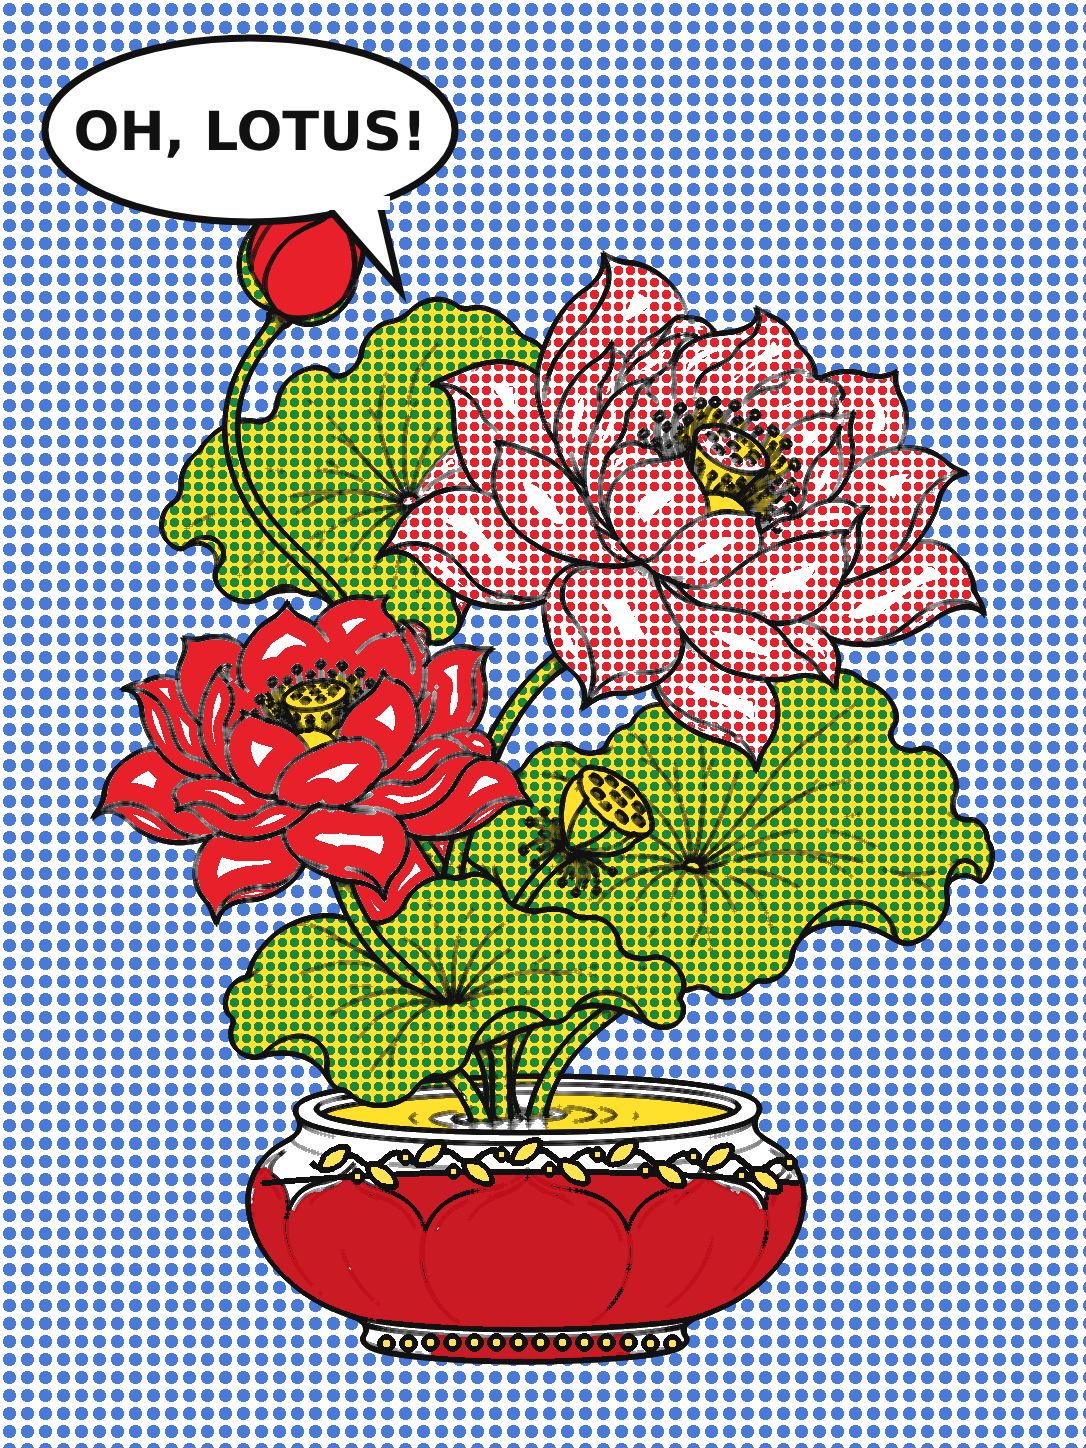
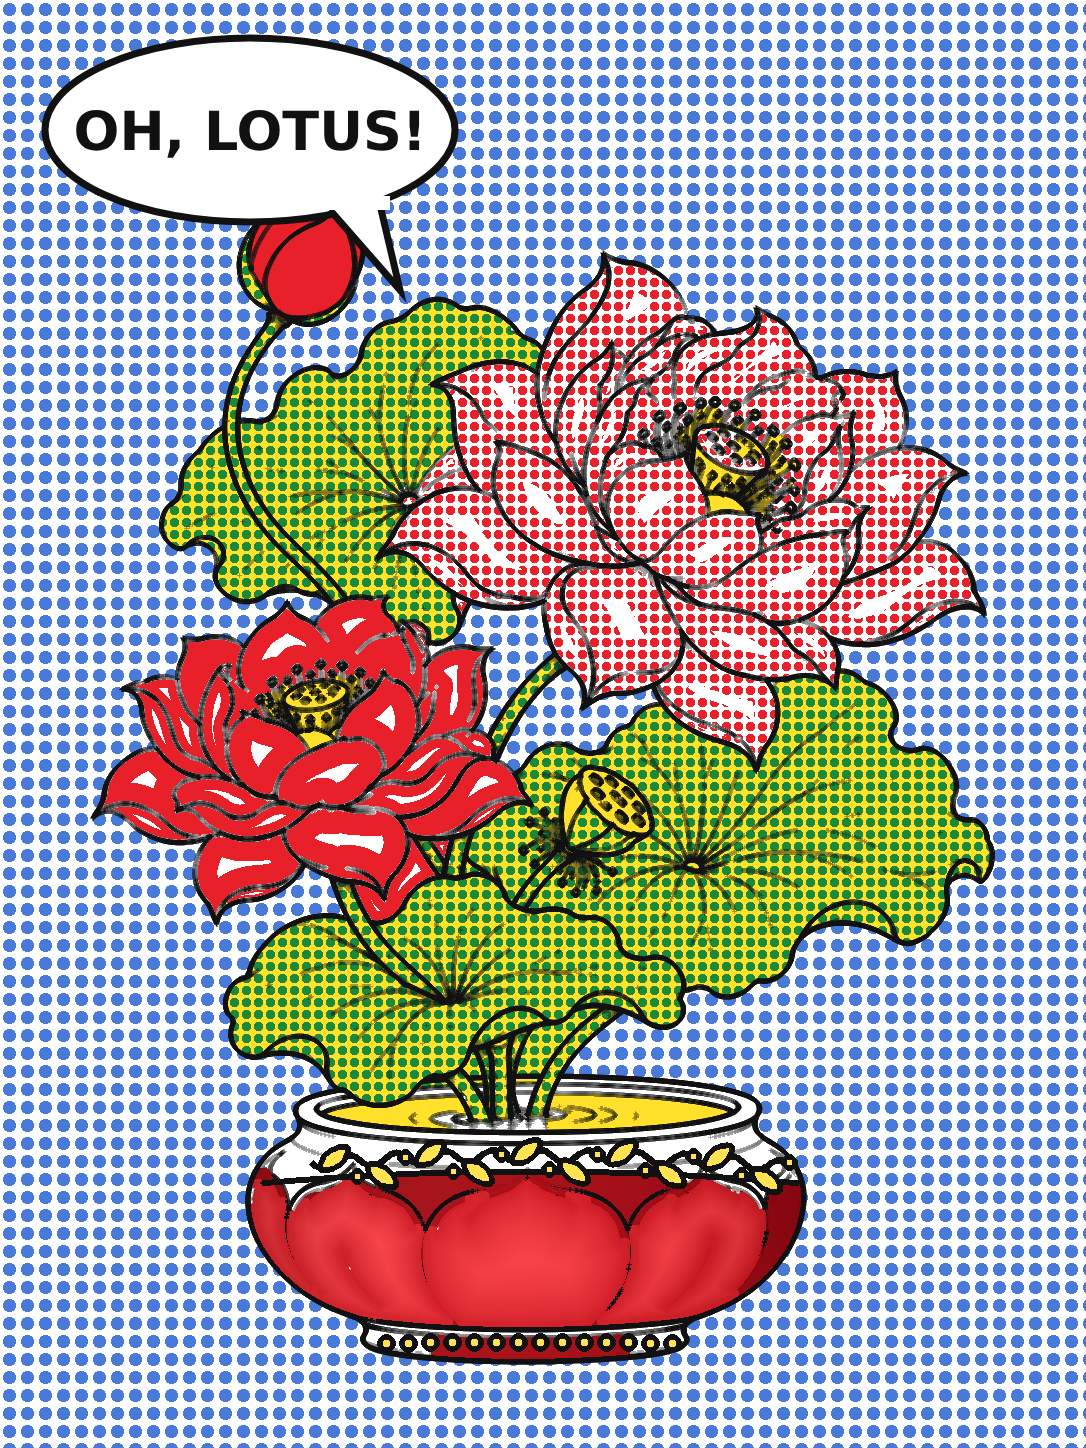
Lotus bowl: layered shading (lit petals, dark surround, round-body shading)
Claude-Session: https://claude.ai/code/session_01Vdfste3ym7yyiZRhYkiYaU

Changed region(s): [[0.2735, 0.808, 0.6685, 0.9634], [0.6685, 0.808, 0.7597, 0.9012], [0.2431, 0.808, 0.2735, 0.8391]]

diff --git a/projects/lotus_masters_20261109/code/recolor_bowl.py b/projects/lotus_masters_20261109/code/recolor_bowl.py
@@ -26,12 +26,37 @@ im = np.asarray(Image.open(path).convert('RGB')).astype(np.float32)
 cls = np.asarray(Image.open(f'{d}/cls.png'))[:, :, 0]
 orn = ndi.binary_dilation(np.asarray(Image.open(f'{d}/orn_mask.png')) > 0, iterations=1)
 bowl = np.isin(cls, [2, 3])
+# petals of the relief: close the gaps at their feet with a thick line dilation, label, take the three big petals by seed point
+base = np.asarray(Image.open(f'{d}/base.png').convert('L')).astype(np.float32)
+ink = ndi.binary_dilation(base < 190, iterations=5)
+plab, _ = ndi.label(~ink)
+PETAL_SEEDS = [(528, 1255), (352, 1262), (690, 1250)]
+pet_ids = [plab[y, x] for (x, y) in PETAL_SEEDS if plab[y, x] > 0]
+pet_mask = np.isin(plab, pet_ids)
+pd = ndi.distance_transform_edt(pet_mask)
+puff = np.zeros(pet_mask.shape, np.float32)
+for pid in pet_ids:
+    m = plab == pid; puff[m] = pd[m] / max(pd[m].max(), 1)
+dist_out, (ny, nx) = ndi.distance_transform_edt(~pet_mask, return_indices=True)
+near_pet = dist_out < 6                                           # include the ink line pixels around each petal
+puff = puff[ny, nx] * near_pet
+pet_mask_full = near_pet
+is_outer = ~pet_mask_full
 r, g, b = im[..., 0], im[..., 1], im[..., 2]
 blue = (b > r + 18) & (b > g + 4)
 L = 0.3 * r + 0.59 * g + 0.11 * b
 t = np.clip((L - 45) / 100, 0, 1)[..., None]
+Hh, Ww = plab.shape; X = np.arange(Ww)[None, :].repeat(Hh, 0).astype(np.float32); Y = np.arange(Hh)[:, None].repeat(Ww, 1).astype(np.float32)
+cyl = (1 - 0.45 * np.clip(((X - 528) / 285) ** 2, 0, 1))[..., None]        # round-body shading: lit centre, dark sides
+lit = np.clip(1 - (X - 380) / 420, 0, 1)[..., None] * 0.18                  # light from the left
 body = bowl & blue & ~orn; ornm = bowl & blue & orn
+# the line pixels belong to their nearest region's class; give them the surface tone of the outer area
+pet = body & ~is_outer
 out = im.copy()
-out[body] = (bd + (bl - bd) * t)[body]
+outer_col = (bd * 0.85)[None, None, :] * (0.6 + 0.4 * cyl) + (bl - bd)[None, None, :] * (0.10 + lit) * cyl + (t - 0.5) * 22
+pu = np.clip(puff, 0, 1)[..., None] ** 0.6
+pet_col = (bd + (bl - bd) * (0.30 + 0.65 * pu))[None, None, :] if False else (bd[None, None, :] + (bl - bd)[None, None, :] * (0.30 + 0.62 * pu + lit)) * (0.78 + 0.22 * cyl) + (t - 0.5) * 26
+out[body & is_outer] = outer_col[body & is_outer]
+out[pet] = pet_col[pet]
 out[ornm] = (od + (ol - od) * t)[ornm]
 Image.fromarray(out.clip(0, 255).astype(np.uint8)).save(path)
